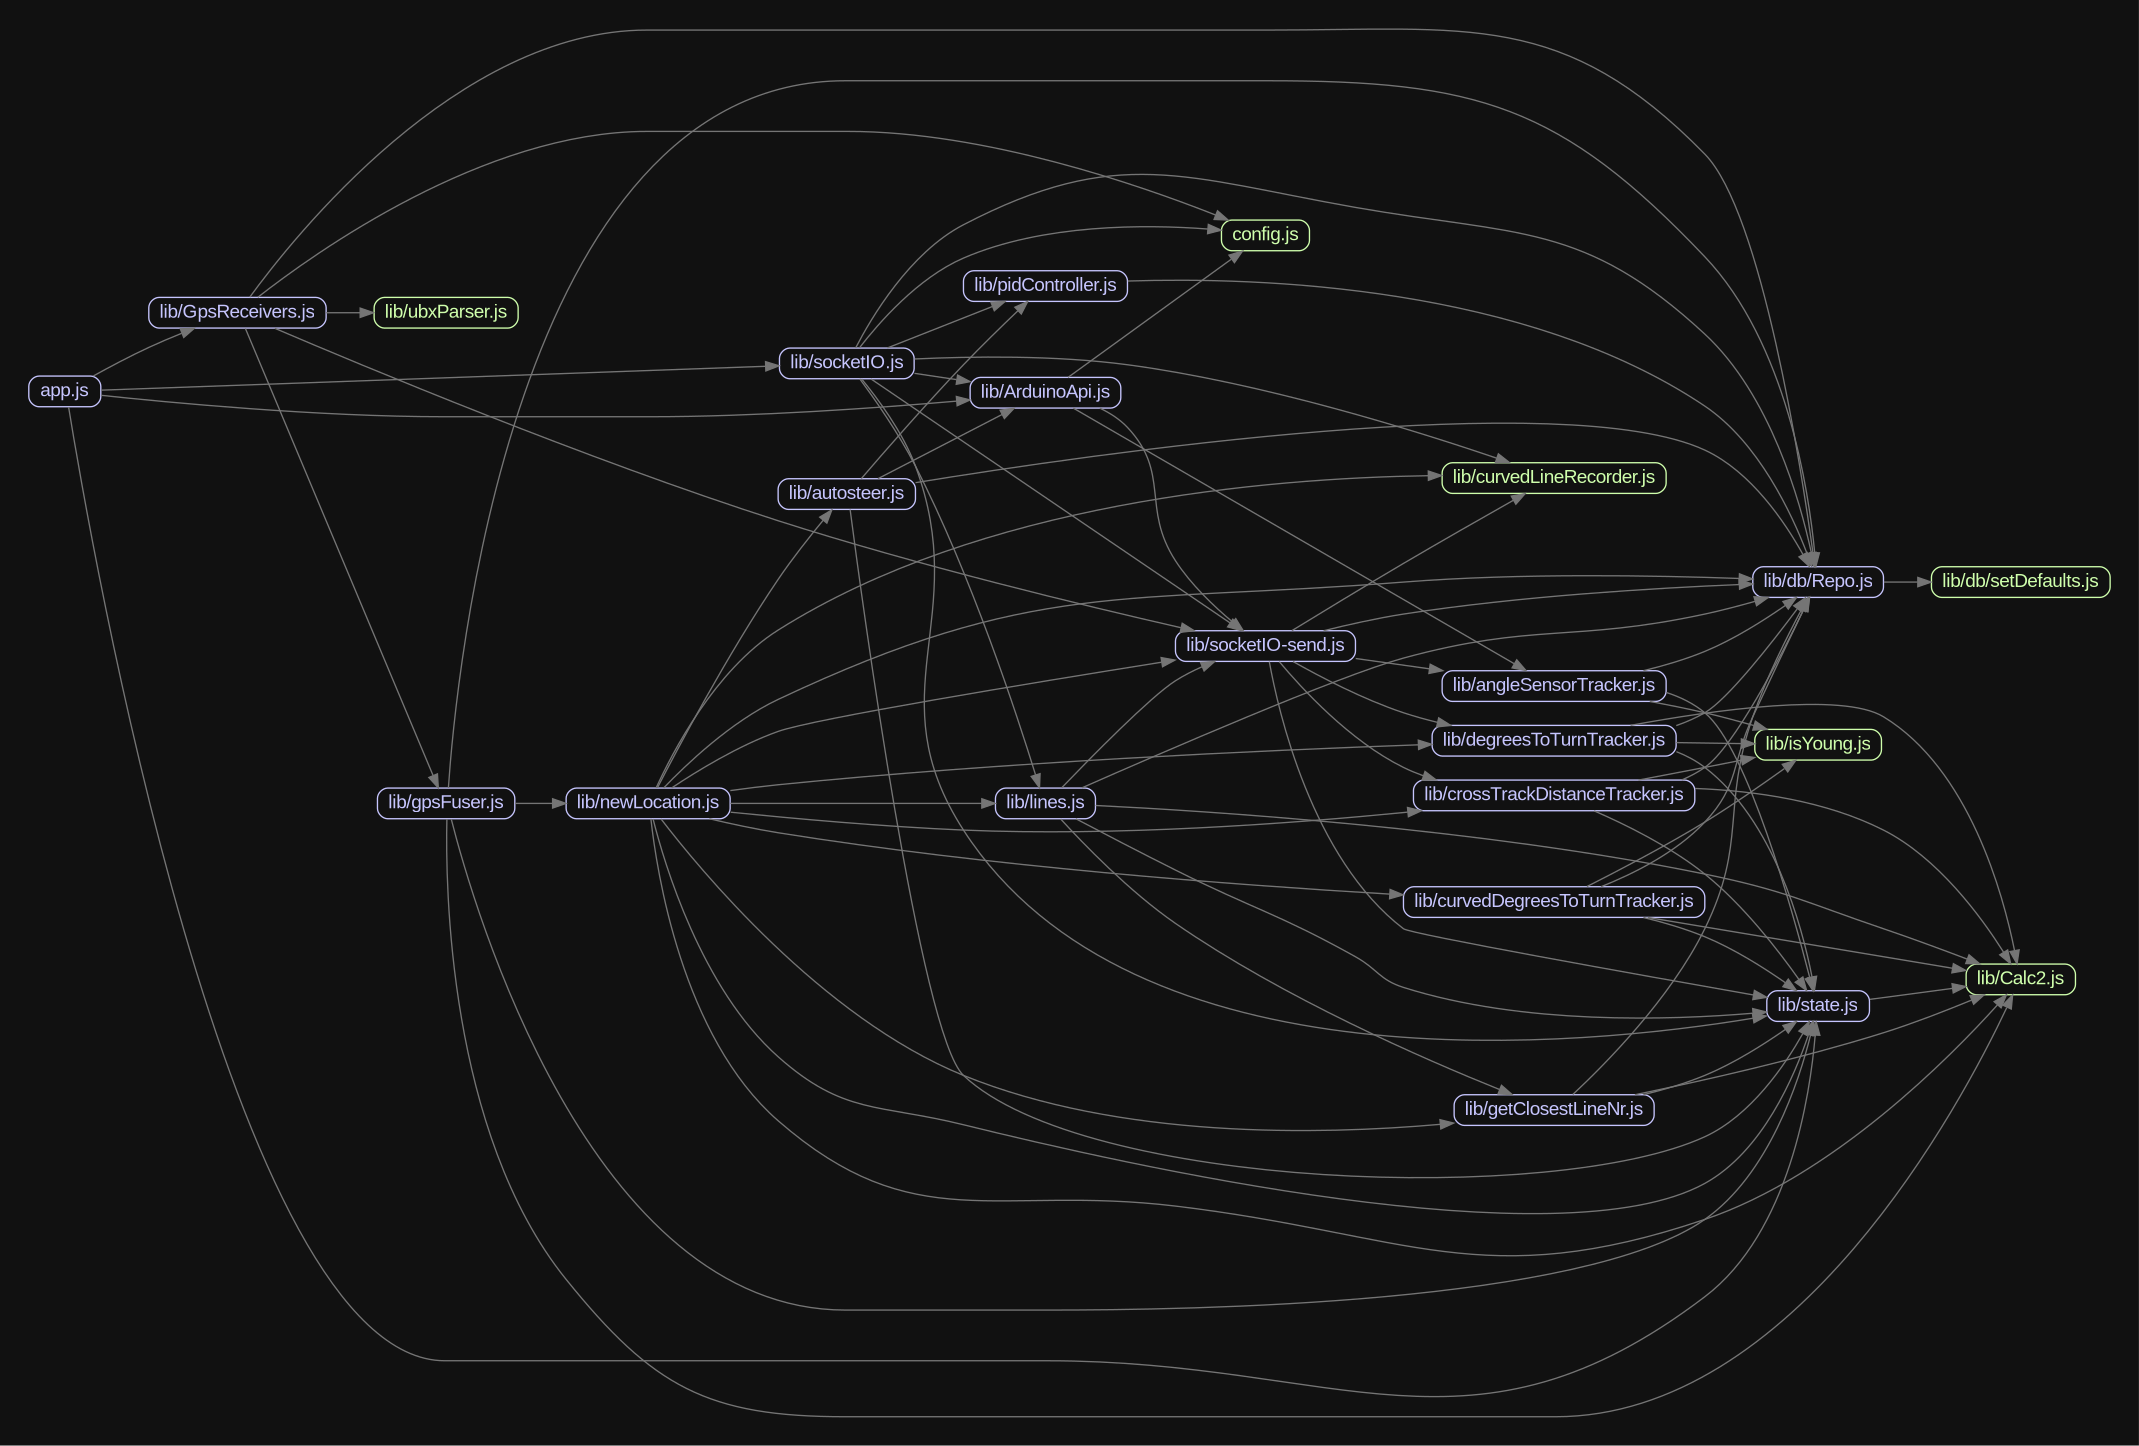
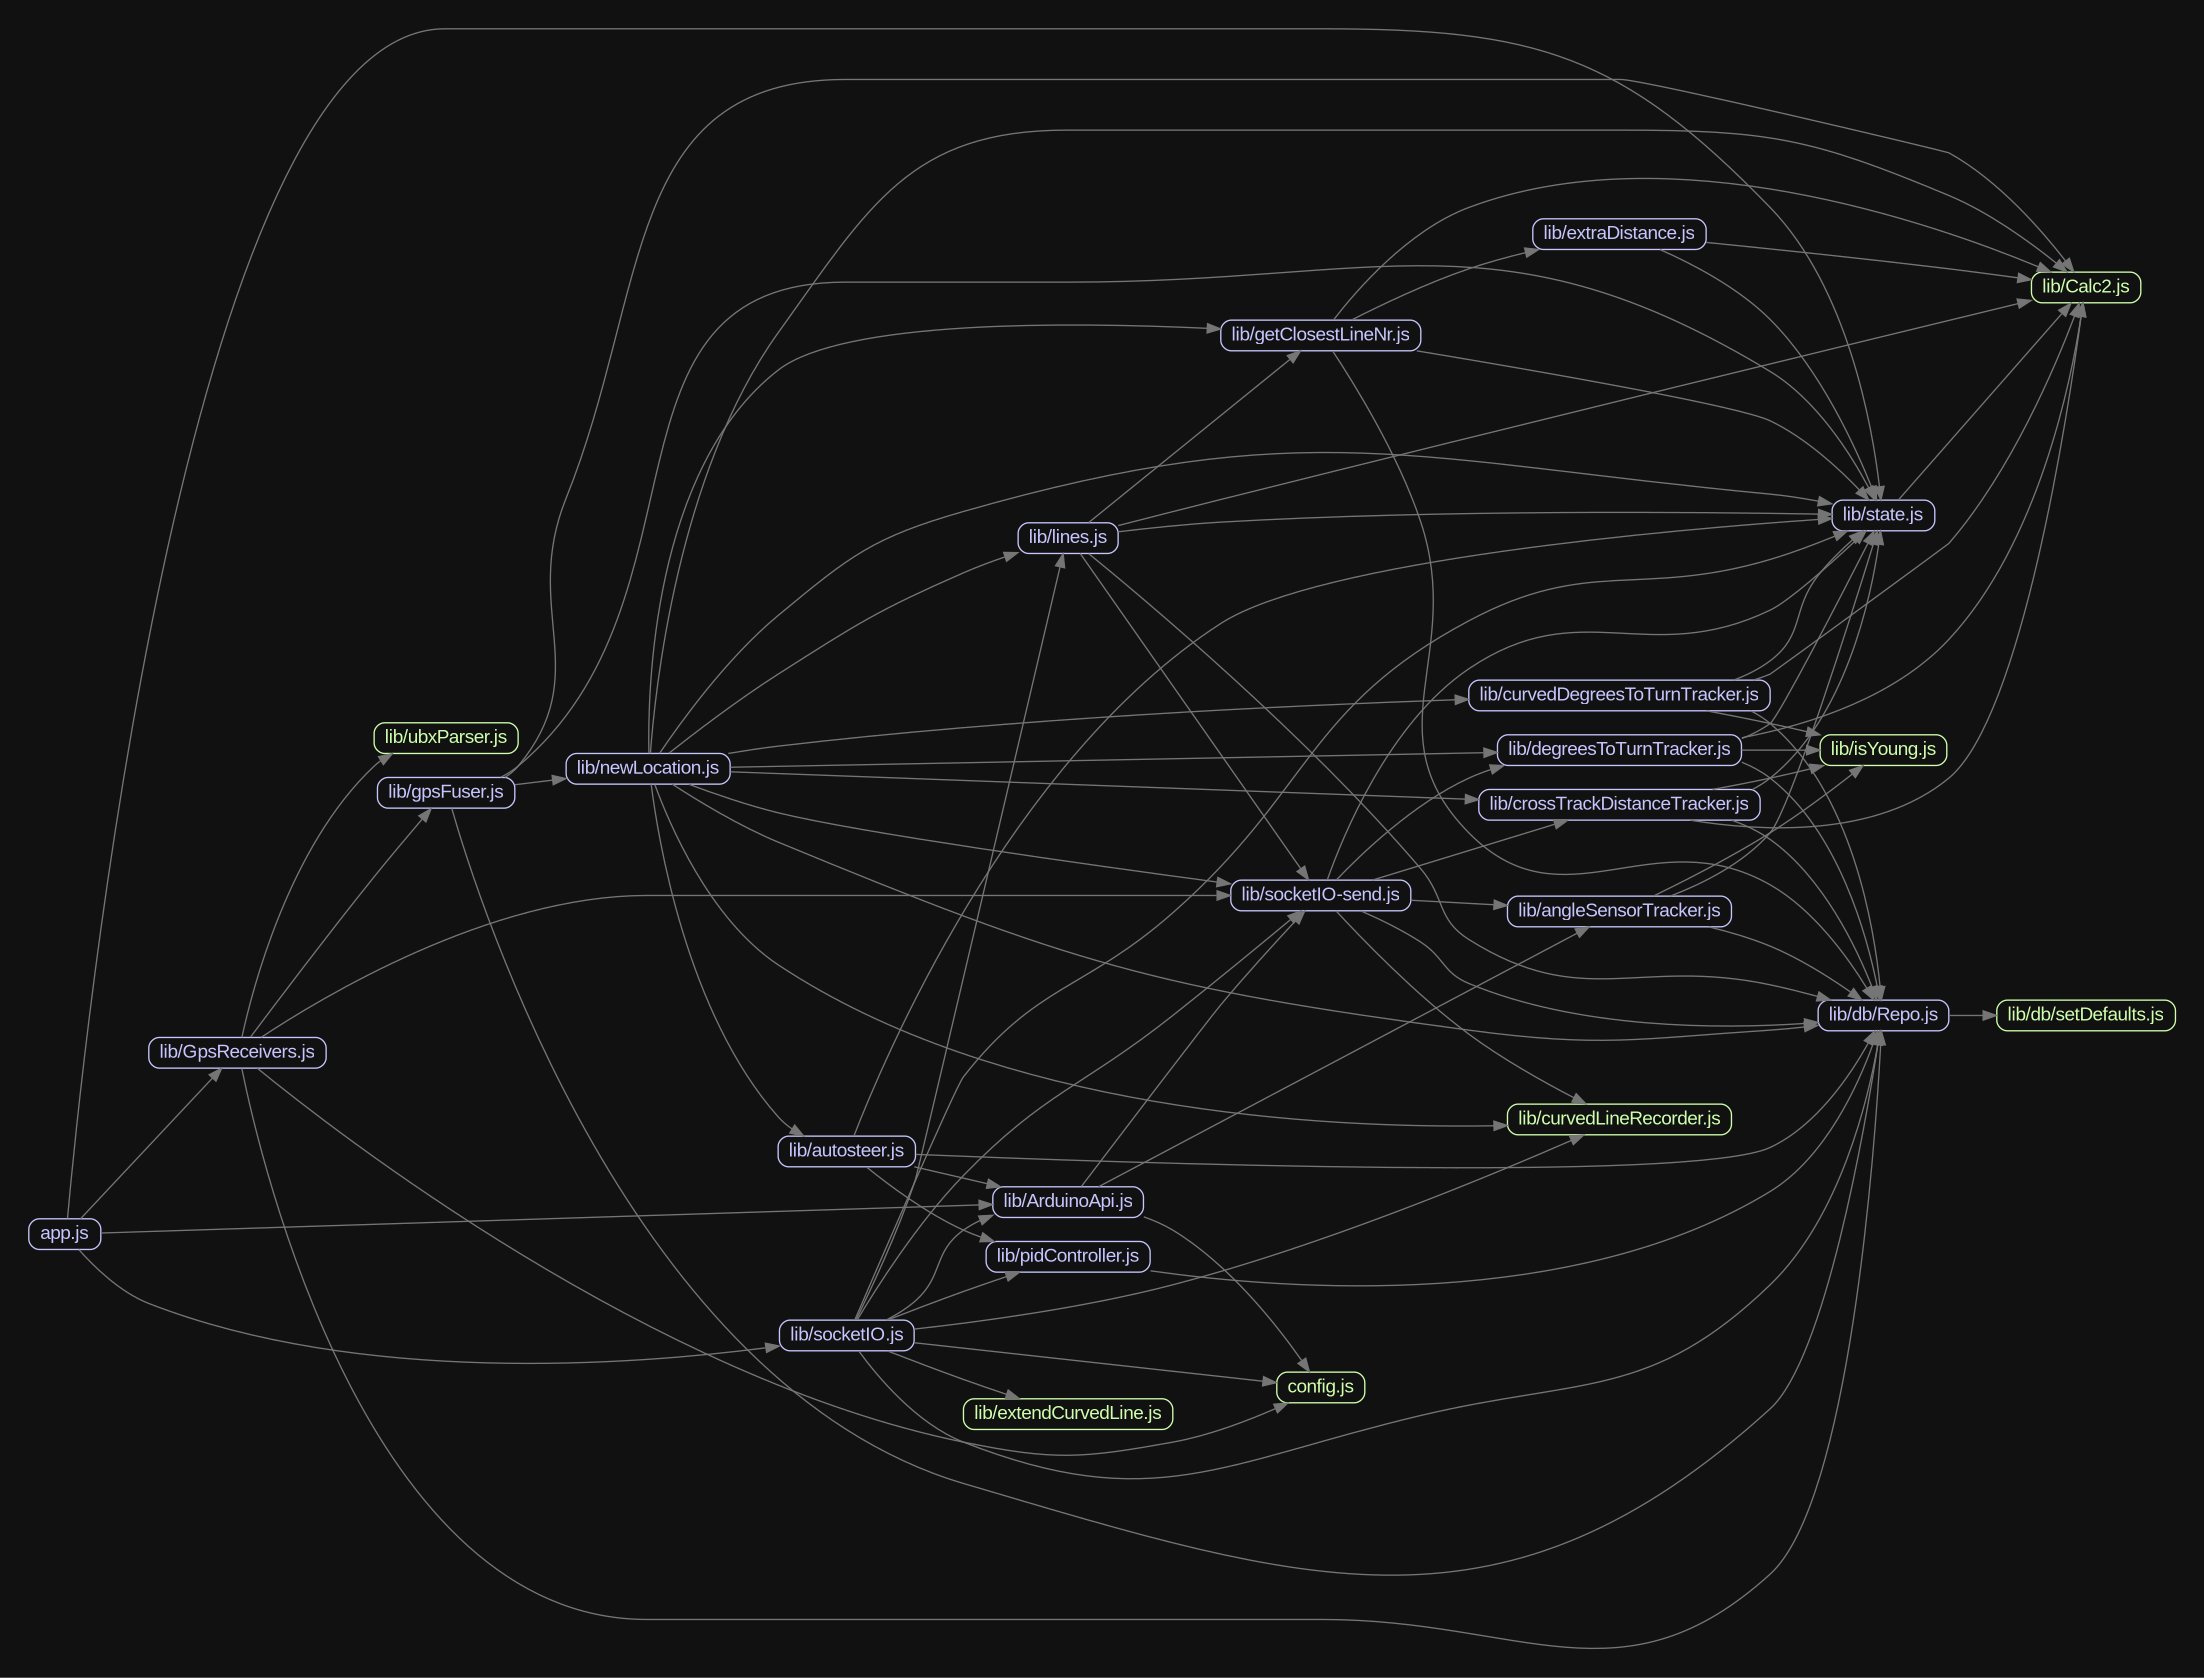
curved Lines

diff --git a/lib/getClosestLineNr.js b/lib/getClosestLineNr.js
@@ -3,12 +3,14 @@ const State = require('./state');
 const DB = require('./db/Repo');
 const Calc2 = require('./Calc2');
 const turf = require('@turf/turf');
+const ExtraDistance = require('./extraDistance');
 
-function getClosestLineNr(currentLocation){
-    if(DB.getSettings().mode === 'curvedABlines'){
+
+function getClosestLineNr(currentLocation) {
+    if (DB.getSettings().mode === 'curvedABlines') {
         return getClosestCurveLineNr(currentLocation);
     }
-    if(DB.getSettings().mode === 'straightABlines'){
+    if (DB.getSettings().mode === 'straightABlines') {
         return getClosestStraightLineNr(currentLocation);
     }
 }
@@ -16,12 +18,24 @@ function getClosestLineNr(currentLocation){
 function getClosestStraightLineNr(currentLocation) {
     let abLineXTD = Calc2.getCrossTrackDistance(State.pointA.location, currentLocation, State.abLineBearing);
     let lineNr = Math.round((abLineXTD + DB.getSettings().lineOffset) / (DB.getSettings().machineWidth / 100));
-    return lineNr
+    return lineNr;
 }
 function getClosestCurveLineNr(currentLocation) {
-    let crosstrackDistance = turf.pointToLineDistance(currentLocation, State.curvedLines.abLine) * 1000;
-    let lineNr = Math.round((crosstrackDistance + DB.getSettings().lineOffset) / (DB.getSettings().machineWidth / 100));
-    return lineNr
+    let line = State.curvedLines.abLine;
+    let nearestPointOnABLine = turf.nearestPointOnLine(turf.lineString([line[0], line[line.length - 1]]), currentLocation).geometry.coordinates;
+    let crosstrackDistance = turf.distance(currentLocation, nearestPointOnABLine) * 1000;
+    let nearestPointOnLineBearing = Calc2.bearing(State.curvedLines.abLine[0], nearestPointOnABLine);
+    let currentLocationBearing = Calc2.bearing(State.curvedLines.abLine[0], currentLocation);
+    let signedDifference = Calc2.angleSignedDifference(nearestPointOnLineBearing, currentLocationBearing);
+    let isOtherSide = Math.sign(signedDifference) === -1;
+    let extraDistance = ExtraDistance.get();
+
+    if (isOtherSide) {
+        crosstrackDistance *= -1;
+    }
+    let lineNr = Math.round((crosstrackDistance + DB.getSettings().lineOffset - extraDistance) / (DB.getSettings().machineWidth / 100));
+
+    return lineNr;
 }
 
 module.exports = getClosestLineNr;

diff --git a/lib/extraDistance.js b/lib/extraDistance.js
@@ -1,0 +1,44 @@
+//@ts-check
+"use strict"
+
+const Calc2 = require('./Calc2');
+const turf = require('@turf/turf');
+const State = require('./state');
+
+function get(){
+  let line = State.curvedLines.abLine;
+  let currentLocation = State.gps.currentLocation;
+  let nearestPointOnABLine = turf.nearestPointOnLine(turf.lineString([line[0], line[line.length - 1]]), currentLocation).geometry.coordinates;
+  
+  let abLineBearing = Calc2.bearing(line[0], line[line.length - 1]);
+  
+  let crossLine1 = turf.lineString([turf.destination(nearestPointOnABLine, 2, abLineBearing + 90).geometry.coordinates, nearestPointOnABLine]);
+  let crossLine2 = turf.lineString([turf.destination(nearestPointOnABLine, 2, abLineBearing - 90).geometry.coordinates, nearestPointOnABLine]);
+  
+  let intersectPoint;
+  let crossLine1Intersects = turf.lineIntersect(crossLine1, turf.lineString(line)).features;
+  let crossLine2Intersects = turf.lineIntersect(crossLine2, turf.lineString(line)).features;
+  
+  let inverseExtraDistance = false;
+  if (crossLine1Intersects.length > 0) {
+      intersectPoint = crossLine1Intersects[0];
+      inverseExtraDistance = false;
+  }
+  if (crossLine2Intersects.length > 0) {
+      intersectPoint = crossLine2Intersects[0];
+      inverseExtraDistance = true;
+  }
+  let extraDistance = 0;
+  if(intersectPoint!== undefined){
+      extraDistance = turf.distance(intersectPoint, nearestPointOnABLine);
+  }    
+  if (inverseExtraDistance) {
+      extraDistance *= -1;
+  }
+  
+  return extraDistance * 1000;  
+}
+
+module.exports = {
+  get
+};

diff --git a/lib/lines.js b/lib/lines.js
@@ -4,8 +4,6 @@ const Calc2 = require('./Calc2');
 const DB = require('./db/Repo');
 const IoSend = require('./socketIO-send');
 const getClosestLineNr = require('./getClosestLineNr');
-const turf = require('@turf/turf');
-
 const Lines = (() => {
     const createAndSend = () => {
         if (DB.getSettings().mode === 'straightABlines') {
@@ -28,13 +26,24 @@ const Lines = (() => {
         }
 
         function createLine(offset) {
-            let line = turf.lineOffset(
-                turf.lineString(State.curvedLines.abLine), //geojson
-                ((-closestLineNr + offset) * DB.getSettings().machineWidth / 100 + lineOffset) / 1000 //distance
-            ).geometry.coordinates;
+            // let line = turf.lineOffset(
+            //     turf.lineString(State.curvedLines.abLine), //geojson
+            //     ((-closestLineNr + offset) * DB.getSettings().machineWidth / 100 + lineOffset) / 1000 //distance
+            // ).geometry.coordinates;
+
+            let line = moveLine(State.curvedLines.abLine, ((-closestLineNr + offset) * DB.getSettings().machineWidth / 100 + lineOffset));
+            
             return line;
         }
         IoSend.sendMapCurvedLines();
+    }
+    function moveLine(line, distance){
+        let bearing =  Calc2.bearing(line[0], line[line.length - 1]);
+        let newLine = [];
+        line.forEach(element => {
+            newLine.push(Calc2.coord(element, bearing-90, distance));
+        });
+        return newLine;
     }
 
     function createAndSendStraight() {

diff --git a/lib/socketIO.js b/lib/socketIO.js
@@ -171,7 +171,7 @@ io.on('connection', (socket) => {
     }
     if (!isRecording && CurvedLineRecorder.get().length >= 2) {
       //State.curvedLines.curvedAbLine = extendCurvedLine(State.curvedLines.curvedAbLine);
-      State.curvedLines.abLine = extendCurvedLine(CurvedLineRecorder.get());
+      State.curvedLines.abLine = CurvedLineRecorder.get();
       CurvedLineRecorder.reset();
       IoSend.sendClearMap();
       createAndSendLines();

diff --git a/lib/state.js b/lib/state.js
@@ -52,6 +52,7 @@ let state = {
   },
   curvedLines: {
     isRecording: false,
+    currentExtraDistance: 0,
     abLine: [],
     closestLine: {},
     others: [],
